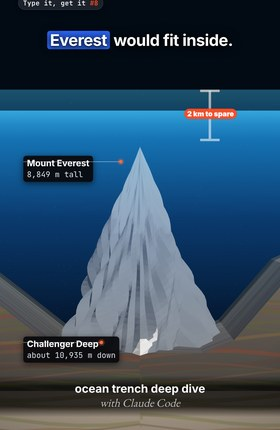
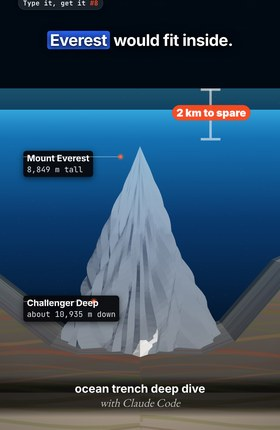
earth8 v2: smoother motion, depth ruler + creatures in the trench (Jan), director PASS
Claude-Session: https://claude.ai/code/session_011mgQaNQjFsHb5M9UtpPrpS

diff --git a/hf/videos/earth8/scenes.js b/hf/videos/earth8/scenes.js
@@ -146,26 +146,29 @@ function liveTag(w,h,sx,style){ const c=document.createElement('canvas'); c.widt
   const NF=900, fp=new Float32Array(NF*3), fv=[]; for(let i=0;i<NF;i++) fv.push([R(),R()*120-60,R()]);
   const fg=new THREE.BufferGeometry(); fg.setAttribute('position',new THREE.BufferAttribute(fp,3));
   const foam=new THREE.Points(fg,new THREE.PointsMaterial({color:0xffffff,size:0.35,transparent:true,opacity:.9})); wave.add(foam);
-  const WAVE0=1.4, WAVE1=3.2;
-  SCN[0]=function(lt0){ const lt=lt0*1.15;
-    if(lt<1.0){ // shot A
+  sc.add(cam); const spdB=liveTag(640,140,2.4,{font:'800 70px Inter, Arial',bg:'rgba(255,75,31,.95)',fg:'#fff',hh:52}); cam.add(spdB); spdB.position.set(0,1.25,-8);
+  const WAVE0=1.75, WAVE1=3.4;
+  SCN[0]=function(lt0){ const lt=lt0;
+    if(false){ // (globe shot removed: hard cut)
       const w=lt<TS? 2.4*lt : 2.4*TS+0.05*Math.sin((lt-TS)*30)*Math.exp(-(lt-TS)*9);
       globe.rotation.y=w; const k=lt<TS?0:cl((lt-TS)/0.3); shock.scale.setScalar(1+k*0.6); shock.material.opacity=lt<TS?0:(1-k);
       spd.set(lt<TS?'1,670 km/h':(lt<TS+0.12?Math.round(1670*(1-(lt-TS)/0.12)).toLocaleString('en-US')+' km/h':'0 km/h'));
       spd.material.opacity=cl(lt/0.15);
       const sh=lt>TS?0.25*Math.exp(-(lt-TS)*7):0; camA.position.set(Math.sin(lt*90)*sh,1.0+Math.cos(lt*77)*sh,31-lt*2.0); camA.lookAt(0,-1.2,0);
       ren.render(scA,camA); caption(0,lt); return; }
-    const t=lt-1.0;
-    fly.forEach(f=>{ const dt=t-f.d; if(dt<=0){ f.o.position.set(f.x0,f.y0,f.z0); f.o.rotation.set(0,0,0); return; }
+    const t=lt-0.7;
+    const cd=cl((lt-0.3)/0.4); spdB.set((cd<1?Math.round(1670*(1-easeIO(cd))/10)*10:0).toLocaleString('en-US')+' km/h');
+    spdB.material.opacity=cl(lt/0.15)*(1-cl((lt-1.5)/0.3));
+    fly.forEach(f=>{ const dt=t-f.d; if(dt<=0||t<=0){ f.o.position.set(f.x0,f.y0,f.z0); f.o.rotation.set(0,0,0); return; }
       const x=f.x0+f.v*dt+9*dt*dt, y=f.y0+f.lift*dt*(1+dt)+0.3*dt; f.o.position.set(x,y,f.z0+0.4*dt*(f.spin[0]));
       f.o.rotation.set(f.spin[0]*dt,f.spin[1]*dt,f.spin[2]*dt); });
     for(let i=0;i<NW;i++){ const v=wv[i]; const x=((v[0]+v[3]*t+200)%160)-80; const L=2+v[3]*0.06; wp[i*6]=x; wp[i*6+1]=v[1]; wp[i*6+2]=v[2]; wp[i*6+3]=x+L; wp[i*6+4]=v[1]; wp[i*6+5]=v[2]; }
-    wg.attributes.position.needsUpdate=true; wind.material.opacity=0.55*cl(t/0.3);
+    wg.attributes.position.needsUpdate=true; wind.material.opacity=0.55*cl(t/0.3); wind.visible=t>0;
     const wu=cl((lt-WAVE0)/(WAVE1-WAVE0)); wave.position.x=-30+wu*42; wave.visible=lt>WAVE0-0.2;
     for(let i=0;i<NF;i++){ const v=fv[i]; const ang=Math.PI*(0.8+0.25*v[0]); const r=9; fp[i*3]=-r+Math.sin(ang)*r*1.15+2+v[2]*1.5+Math.sin(lt*6+i)*0.3; fp[i*3+1]=(1-Math.cos(ang))*r*0.95+v[2]*1.2; fp[i*3+2]=v[1]; }
     fg.attributes.position.needsUpdate=true;
-    const sh=0.22*Math.exp(-t*2.2)+0.06*cl((lt-WAVE0)/0.8);
-    cam.position.set(2+Math.sin(lt*83)*sh, 3.2+Math.cos(lt*71)*sh, 24-1.5*t); cam.lookAt(-2,3.2+0.4*t,0);
+    const sh=(t>0?0.22*Math.exp(-t*2.2):0)+0.06*cl((lt-WAVE0)/0.8);
+    cam.position.set(2+Math.sin(lt*83)*sh, 3.2+Math.cos(lt*71)*sh, 25-1.1*lt); cam.lookAt(-2,3.2+0.3*Math.max(0,t),0);
     ren.render(sc,cam); caption(0,lt); };
 })();
 
@@ -216,24 +219,56 @@ function liveTag(w,h,sx,style){ const c=document.createElement('canvas'); c.widt
   const bm=glowMat(0xff6a3d,1); brk.add(tubeBetween([2.9,peakY,ZW/2],[2.9,-0.05,ZW/2],0.05,bm)); brk.add(tubeBetween([2.5,peakY,ZW/2],[3.3,peakY,ZW/2],0.05,bm)); brk.add(tubeBetween([2.5,-0.05,ZW/2],[3.3,-0.05,ZW/2],0.05,bm));
   const gapT=liveTag(560,140,3.4,{font:'800 70px Inter, Arial',bg:'rgba(255,75,31,.95)',fg:'#fff',hh:52}); gapT.set('2 km to spare'); gapT.position.set(2.9,peakY/2,ZW/2+0.3); brk.add(gapT);
   const an=[new THREE.Object3D(),new THREE.Object3D()]; an[0].position.set(-0.8,peakY-1.2,ZW/2); an[1].position.set(-1.9,-D+1.7,ZW/2); an.forEach(a=>sc.add(a));
-  const DIVE=1.0, DROP0=1.05, DROP1=1.5;
-  SCN[1]=function(lt0){ const lt=lt0*1.15;
+  const DIVE=3.5, DROP0=3.5, DROP1=4.4;
+  // creatures/landmarks met on the way down (real depths): drawn as glowing silhouettes on canvas sprites
+  function sil(w,h,draw){ const t=canvasTex(w,h,(c,W,H)=>{ c.save(); draw(c,W,H); c.restore(); }); return new THREE.Sprite(new THREE.SpriteMaterial({map:t,transparent:true,depthWrite:false,toneMapped:false})); }
+  const whale=sil(512,256,(c,w,h)=>{ c.fillStyle='#3d4a5c'; c.beginPath(); c.moveTo(40,120); c.quadraticCurveTo(60,60,190,62); c.lineTo(330,70); c.quadraticCurveTo(420,90,440,128); c.lineTo(480,96); c.lineTo(500,108); c.lineTo(476,140); c.lineTo(500,172); c.lineTo(480,180); c.lineTo(440,150);
+    c.quadraticCurveTo(330,185,190,172); c.quadraticCurveTo(50,175,40,120); c.fill(); c.fillStyle='#55667c'; c.fillRect(60,70,120,20); c.fillStyle='#0b0f16'; c.beginPath(); c.arc(150,118,6,0,7); c.fill(); });
+  const angler=sil(256,256,(c,w,h)=>{ const g=c.createRadialGradient(150,48,0,150,48,40); g.addColorStop(0,'rgba(190,255,240,1)'); g.addColorStop(1,'rgba(120,255,220,0)'); c.fillStyle=g; c.fillRect(100,0,100,100);
+    c.strokeStyle='#5a4a40'; c.lineWidth=5; c.beginPath(); c.moveTo(118,110); c.quadraticCurveTo(130,40,150,48); c.stroke();
+    c.fillStyle='#4a3c34'; c.beginPath(); c.ellipse(118,160,78,62,0,0,7); c.fill(); c.beginPath(); c.moveTo(190,150); c.lineTo(250,110); c.lineTo(250,200); c.fill();
+    c.fillStyle='#e8e2d0'; for(let i=0;i<7;i++){ c.beginPath(); c.moveTo(48+i*12,175); c.lineTo(54+i*12,192); c.lineTo(60+i*12,175); c.fill(); } c.fillStyle='#cfe9ff'; c.beginPath(); c.arc(90,140,7,0,7); c.fill(); });
+  const ship=sil(512,256,(c,w,h)=>{ c.fillStyle='#4a3a30'; c.beginPath(); c.moveTo(20,120); c.lineTo(492,110); c.lineTo(470,190); c.lineTo(60,196); c.closePath(); c.fill();
+    c.fillStyle='#6a5444'; c.fillRect(90,92,330,28); [140,210,280,350].forEach(x=>{ c.fillStyle='#5a4638'; c.save(); c.translate(x,92); c.rotate(-0.12); c.fillRect(-14,-62,28,62); c.restore(); });
+    c.fillStyle='rgba(20,15,10,.6)'; for(let i=0;i<22;i++) c.fillRect(70+i*18,140,8,8); });
+  const snail=sil(256,128,(c,w,h)=>{ c.fillStyle='#f0c9c4'; c.beginPath(); c.ellipse(80,64,58,34,0,0,7); c.fill(); c.beginPath(); c.moveTo(120,44); c.quadraticCurveTo(220,52,250,64); c.quadraticCurveTo(220,78,120,86); c.fill();
+    c.fillStyle='#2a1a1a'; c.beginPath(); c.arc(52,56,6,0,7); c.fill(); });
+  const pathX=(y)=>{ const du=(-0.3-y)/(D-0.6); return -6+6*du; };
+  const meets=[[whale,2.0,1.6,'Sperm whale','~2,000 m'],[angler,1.0,0.8,'Anglerfish','~1,000 m'],[ship,3.8,1.8,'Titanic wreck','3,800 m'],[snail,8.336,0.9,'Deepest fish seen','8,336 m']];
+  meets.forEach(m=>{ const [sp,dk,sz]=m; sp.scale.set(sz,sz*sp.material.map.image.height/sp.material.map.image.width,1); sp.position.set(pathX(-dk)+(sz>1.7?0.55:(dk>8?1.1:0.95)),-dk,ZW/2+0.5); sc.add(sp);
+    const t=liveTag(1000,160,1.6,{font:'700 58px Inter, Arial',bg:'rgba(8,10,14,.88)',fg:'#ffffff',hh:56}); t.set(m[3]+' · '+m[4]); t.position.set(pathX(-dk)+0.5,sp.position.y+sz*0.36+0.12,ZW/2+0.7); sc.add(t); m.push(t); });
+  // depth ruler (screen space, left edge): ticks every 500 m, scrolls with the dive; marks Titanic + Everest height
+  const st=document.getElementById('st1'); const rul=document.createElement('div'); rul.id='rul'; rul.innerHTML='<div id="rtape"></div><div id="rnow"><i></i><b id="rnum">0 m</b></div>'; st.appendChild(rul);
+  const tape=rul.querySelector('#rtape'), rnum=rul.querySelector('#rnum'); const PX=240;
+  let th=''; for(let m=0;m<=11000;m+=500){ th+='<div class="tk'+(m%1000?'':' big')+'" style="top:'+(m/1000*PX)+'px">'+(m%1000?'':'<span>'+(m/1000)+' km</span>')+'</div>'; }
+  th+='<div class="rm" style="top:'+(8.849*PX)+'px">Everest is 8,849 m tall</div>'; tape.innerHTML=th;
+  const css=document.createElement('style'); css.textContent='#rul{position:absolute;left:0;top:0;width:760px;height:1920px;pointer-events:none;opacity:0;-webkit-mask-image:linear-gradient(180deg,transparent 380px,#000 520px,#000 1380px,transparent 1520px)}'+
+   '#rtape{position:absolute;left:70px;top:960px;width:4px;height:'+(11*PX)+'px;background:rgba(255,255,255,.55)}'+
+   '.tk{position:absolute;left:0;width:22px;height:3px;background:rgba(255,255,255,.6)}.tk.big{width:40px;background:#fff}.tk span{position:absolute;white-space:nowrap;left:52px;top:-20px;font:700 34px Inter,Arial;color:#fff;text-shadow:0 2px 10px #000}'+
+   '.rm{position:absolute;left:300px;transform:translateY(-50%);white-space:nowrap;background:#ff4b1f;color:#fff;font:700 28px Inter,Arial;padding:6px 14px;border-radius:999px}'+
+   '#rnow{position:absolute;left:58px;top:960px;transform:translateY(-50%);display:flex;align-items:center;gap:10px}#rnow i{width:0;height:0;border-left:22px solid #ff4b1f;border-top:13px solid transparent;border-bottom:13px solid transparent}'+
+   '#rnow b{font:800 44px "JetBrains Mono",monospace;color:#fff;background:rgba(8,10,14,.9);padding:6px 14px;border-radius:12px}';
+  st.appendChild(css);
+  SCN[1]=function(lt0){ const lt=lt0;
     for(let i=0;i<sp.count;i++){ const x=sp.getX(i), y=sp.getY(i); sp.setZ(i,0.06*Math.sin(x*1.3+lt*3)+0.04*Math.sin(y*2+lt*2.3)); } sp.needsUpdate=true; surf.geometry.computeVertexNormals();
-    const du=easeIO(cl(lt/DIVE)); const subY=-0.3-(D-0.6)*du; const subX=-6+6*du+0.3*Math.sin(lt*2);
-    sub.position.set(subX,subY,ZW/2+0.4); sub.visible=lt<DROP1+0.2;
-    const depth=Math.round(cl(-subY/D)*D*1000/5)*5; gauge.set((lt>DIVE?10935:depth).toLocaleString('en-US')+' m');
-    gauge.position.set(subX,subY+0.62,ZW/2+0.6); gauge.material.opacity=cl(lt/0.2)*(1-cl((lt-DROP0)/0.25));
-    const eu=cl((lt-DROP0)/(DROP1-DROP0)); const ey=-D+H/2+ (1-easeOut2(eu))*22 + (eu>=1?0:0); everest.position.set(0,ey,0); everest.visible=lt>DROP0;
-    const bounce=eu>=1?0.25*Math.exp(-(lt-DROP1)*8)*Math.sin((lt-DROP1)*30):0; everest.position.y+=bounce;
-    const bu=cl((lt-DROP1-0.2)/0.3); brk.visible=bu>0; brk.scale.set(1,1,1); bm.opacity=bu; gapT.material.opacity=bu;
-    // camera: follow the sub down, then pull back to the full slice
-    const pu=easeIO(cl((lt-DIVE)/0.8));
-    const fx=subX+0.5, fy=subY, fz=ZW/2+6.5;
-    const wx=0.0, wy=-5.2, wz=ZW/2+30;
-    cam.position.set(fx+(wx-fx)*pu, fy+0.6+(wy-fy-0.6)*pu, fz+(wz-fz)*pu); cam.lookAt(fx+(wx-fx)*pu, fy+(wy-fy)*pu, 0);
-    const la=cl((lt-DROP1-0.35)/0.25);
-    layoutLabels([['l1_0',an[0],la],['l1_1',an[1],cl((lt-DIVE-0.5)/0.25)]].map(([id,o,a])=>[document.getElementById(id),o,a]),cam,90,150);
-    ren.render(sc,cam); caption(1,lt); };
+    const du=easeIO(cl(lt/DIVE)); const subY=-0.3-(D-0.6)*du; const subX=pathX(subY)+0.15*Math.sin(lt*2);
+    sub.position.set(subX,subY,ZW/2+0.4); sub.visible=lt<DROP1+0.2; gauge.visible=false;
+    const dkm=D*du; rnum.textContent=(Math.round(dkm*1000/5)*5).toLocaleString('en-US')+' m';
+    tape.style.transform='translateY('+(-dkm*PX)+'px)'; rul.style.opacity=cl(lt/0.25)*(1-cl((lt-DIVE)/0.3));
+    meets.forEach(m=>{ const near=1-cl((Math.abs(m[1]+subY)-0.7)/0.8); m[0].material.opacity=near; m[5].material.opacity=near*(1-cl((lt-DIVE)/0.3)); });
+    whale.position.x=pathX(-2.0)+0.95+0.2*Math.sin(lt*1.2); angler.position.y=-1.0+0.05*Math.sin(lt*3);
+    const eu=cl((lt-DROP0)/(DROP1-DROP0)); everest.position.set(0,-D+H/2+(1-easeIO(eu))*16,0); everest.visible=lt>DROP0;
+    const bu=cl((lt-DROP1-0.1)/0.3); brk.visible=bu>0; bm.opacity=bu; gapT.material.opacity=bu;
+    meets.forEach(m=>{ if(lt>DIVE) m[0].material.opacity*=1-cl((lt-DIVE)/0.4); });
+    // camera: follow the sub down (a little wider to see the creatures), then a smooth pull-back, then a slow push-in (never static)
+    const pu=easeIO(cl((lt-DIVE+0.15)/1.1));
+    const fx=subX+0.55, fy=subY, fz=ZW/2+7.5;
+    const push=Math.max(0,lt-DIVE-0.95)*0.8;
+    const wx=0.0, wy=-5.2, wz=ZW/2+30-push;
+    cam.position.set(fx+(wx-fx)*pu, fy+0.5+(wy-fy-0.5)*pu, fz+(wz-fz)*pu); cam.lookAt(fx+(wx-fx)*pu, fy+(wy-fy)*pu, 0);
+    const la=cl((lt-DROP1-0.25)/0.25);
+    layoutLabels([['l1_0',an[0],la],['l1_1',an[1],cl((lt-DIVE-0.6)/0.25)]].map(([id,o,a])=>[document.getElementById(id),o,a]),cam,90,150);
+    ren.render(sc,cam); caption(1,lt-DROP0+0.1); };
 })();
 
 // ---------- S2 /scale the Moon versus Earth, true to scale: the Moon is 3,474 km wide, Earth 12,742 km (~3.7x). Then Moons fly in and
@@ -250,30 +285,31 @@ function liveTag(w,h,sx,style){ const c=document.createElement('canvas'); c.widt
   const moonMat=new THREE.MeshStandardMaterial({map:mTex,roughness:.95});
   const moon=new THREE.Mesh(new THREE.SphereGeometry(RM,64,40),moonMat); sc.add(moon);
   const NM=48, mini=[]; const mg=new THREE.SphereGeometry(RM,32,20);
-  for(let i=0;i<NM;i++){ const m=new THREE.Mesh(mg,moonMat); const a=R()*Math.PI*2, e=(R()-.5)*1.6; m.userData={from:new THREE.Vector3((i%2?1:-1)*(6+R()*2),-1+R()*3.5,2+R()*2), t0:0.45+i*0.02}; m.visible=false; sc.add(m); mini.push(m); }
+  for(let i=0;i<NM;i++){ const m=new THREE.Mesh(mg,moonMat); const a=R()*Math.PI*2, e=(R()-.5)*1.6; m.userData={from:new THREE.Vector3((i%2?1:-1)*(6+R()*2),-1+R()*3.5,2+R()*2), t0:0.4+i*0.018}; m.visible=false; sc.add(m); mini.push(m); }
   const cnt=liveTag(560,160,2.4,{font:'900 92px Inter, Arial',bg:'rgba(255,75,31,.95)',fg:'#fff',hh:62}); sc.add(cnt);
   const line=new THREE.Mesh(new THREE.CylinderGeometry(1,1,1,12),glowMat(0xff6a3d,.95)); sc.add(line);
   const dT=liveTag(800,150,1,{font:'800 74px Inter, Arial',bg:'rgba(8,9,12,.9)',fg:'#fff',hh:54}); dT.set('384,400 km apart'); sc.add(dT);
   const tE=liveTag(400,130,1,{font:'800 64px Inter, Arial',bg:'rgba(8,9,12,.9)',fg:'#fff',hh:46}); tE.set('Earth'); sc.add(tE);
   const tM=liveTag(400,130,1,{font:'800 64px Inter, Arial',bg:'rgba(8,9,12,.9)',fg:'#fff',hh:46}); tM.set('Moon'); sc.add(tM);
   const an=[new THREE.Object3D(),new THREE.Object3D()]; earth.add(an[0]); an[0].position.set(RE*0.7,RE*0.2,RE*0.6); moon.add(an[1]); an[1].position.set(RM*0.6,0,RM*0.7);
-  const PULL=2.05;
-  SCN[2]=function(lt0){ const lt=lt0*1.15; earth.rotation.y=0.6+lt*0.15; moon.rotation.y=lt*0.1;
+  const mdot=new THREE.Sprite(new THREE.SpriteMaterial({map:canvasTex(64,64,(c,w,h)=>{ const g=c.createRadialGradient(32,32,0,32,32,32); g.addColorStop(0,'rgba(235,235,230,1)'); g.addColorStop(.45,'rgba(220,220,215,1)'); g.addColorStop(.6,'rgba(220,220,215,.25)'); g.addColorStop(1,'rgba(220,220,215,0)'); c.fillStyle=g; c.fillRect(0,0,w,h); }),transparent:true,depthWrite:false,toneMapped:false})); sc.add(mdot);
+  const PULL=1.8;
+  SCN[2]=function(lt0){ const lt=lt0; earth.rotation.y=0.6+lt*0.35; moon.rotation.y=lt*0.2;
     const pop=backOut(cl(lt/0.45)), popM=backOut(cl((lt-0.25)/0.45));
     earth.scale.setScalar(Math.max(0.001,pop)); atm.scale.setScalar(Math.max(0.001,pop));
-    const pu=easeIO(cl((lt-PULL)/0.65)); const my=RE+RM+1.2+(DIST-(RE+RM+1.2))*pu;
+    const pu=easeIO(cl((lt-PULL)/1.15)); const my0=RE+RM+1.2; const my=my0*Math.pow(DIST/my0,pu);
     moon.position.set(0.9*(1-pu),my,0); moon.scale.setScalar(Math.max(0.001,popM));
     // moons diving into Earth + counter
     let n=0; mini.forEach((m,i)=>{ const u=cl((lt-m.userData.t0)/0.28); m.visible=u>0&&u<1&&lt<PULL; if(u>=1) n++;
       if(m.visible){ m.position.copy(m.userData.from).lerp(new THREE.Vector3(0,0,0),easeIO(u)); m.scale.setScalar(1-0.85*u*u); } });
-    const cn=lt<0.45?0:Math.min(49,n+1); cnt.set('×'+cn); cnt.position.set(-1.25,RE+1.15,1.0); cnt.material.opacity=cl((lt-0.45)/0.15)*(1-cl((lt-PULL)/0.3));
+    const cn=lt<0.4?0:Math.min(49,n+1); cnt.set('×'+cn); cnt.position.set(-1.25,RE+1.15,1.0); cnt.material.opacity=cl((lt-0.4)/0.15)*(1-cl((lt-PULL)/0.25));
     // distance line
     // camera: close two-shot -> very far, both in frame
-    const d0=16.5, d1=DIST*2.9; const d=d0*Math.pow(d1/d0,pu); const ty=1.9*(1-pu)+(DIST*0.45)*pu;
+    const d0=16.5, d1=DIST*2.9; const d=d0*Math.pow(d1/d0,pu); const ty=my*0.47;
     cam.position.set(1.0*(1-pu),ty,d); cam.lookAt(0,ty,0);
     line.visible=pu>0.02; line.position.set(0,(RE+my)/2,0); line.scale.set(0.0016*d,Math.max(0.01,my-RE-RM),0.0016*d);
-    dT.position.set(0,DIST*0.5,0); dT.scale.set(d*0.3,d*0.3*150/800,1); dT.material.opacity=cl((lt-PULL-0.42)/0.15);
-    const ft=cl((lt-PULL-0.45)/0.15); [tE,tM].forEach((t,i)=>{ t.material.opacity=ft; const k=d*0.11; t.scale.set(k,k*130/400,1); t.position.set(d*0.12,i?my:0,0); });
+    dT.position.set(0,my*0.5,0); mdot.position.copy(moon.position); mdot.scale.setScalar(0.03*d); mdot.material.opacity=cl((pu-0.5)/0.3); dT.scale.set(d*0.3,d*0.3*150/800,1); dT.material.opacity=cl((pu-0.8)/0.2);
+    const ft=cl((pu-0.8)/0.2); [tE,tM].forEach((t,i)=>{ t.material.opacity=ft; const k=d*0.11; t.scale.set(k,k*130/400,1); t.position.set(d*0.12,i?my:0,0); });
     const la=(1-cl((lt-PULL)/0.25));
     layoutLabels([['l2_0',an[0],cl((lt-0.3)/0.2)*la],['l2_1',an[1],cl((lt-0.45)/0.2)*la]].map(([id,o,a])=>[document.getElementById(id),o,a]),cam,640,150);
     ren.render(sc,cam); caption(2,lt); };

diff --git a/hf/videos/earth8/build.py b/hf/videos/earth8/build.py
@@ -18,7 +18,7 @@ for k in range(3):
         Image.new("RGB", (280, 430), (34, 34, 34)).save(A / f"th{k}.jpg")
 
 # --- gaps after each "this." so the 3D result plays
-GAPS = {13: 1.8, 25: 1.8, 36: 1.8}
+GAPS = {13: 2.4, 25: 4.6, 36: 2.6}
 if not (A / "voice_raw.mp3").exists():
     shutil.copy(A / "voice.mp3", A / "voice_raw.mp3"); shutil.copy(A / "voice.json", A / "voice_raw.json")
 vw = json.loads((A / "voice_raw.json").read_text())
@@ -232,7 +232,7 @@ function apply(t){
 const clock={t:0}; tl.fromTo(clock,{t:0},{t:DUR,duration:DUR,ease:'none',onUpdate:()=>apply(clock.t)},0); apply(0);
 const NI={immediateRender:false}; function F2(sel,f,t,at){ return tl.fromTo(sel,f,Object.assign({},t,NI),at); }
 TY.forEach((d,k)=>{
-  if(k){ tl.set('#st'+(k-1),{opacity:0},d.T); tl.set(['#kbw','#inp'],{y:0,opacity:1},d.T); tl.set(['#ub','#run','#bot'],{opacity:0},d.T); }
+  if(k){ F2('#st'+(k-1),{scale:1,y:0,borderRadius:0},{scale:.58,y:110,borderRadius:60,duration:.4,ease:'power2.inOut'},d.T-0.62); F2('#st'+(k-1),{opacity:1,y:110},{opacity:0,y:-500,duration:.25,ease:'power2.in'},d.T-0.22); tl.set(['#kbw','#inp'],{y:0,opacity:1},d.T); tl.set(['#ub','#run','#bot'],{opacity:0},d.T); }
   F2('#chipc',{opacity:0,y:30},{opacity:1,y:0,duration:.2,ease:'power2.out'},d.slash);
   tl.set('#snd',{backgroundColor:'#ff4b1f'},d.slash+0.05);
   tl.set('#chipc',{opacity:0},d.p0);
@@ -243,10 +243,10 @@ TY.forEach((d,k)=>{
   F2('#bot',{opacity:0},{opacity:1,duration:.2},d.send+0.15);
   tl.set('#snd',{backgroundColor:'#3a3a3a'},d.send+0.3);
   F2('#st'+k,{opacity:0,scale:.5,y:140,borderRadius:60},{opacity:1,scale:.58,y:110,borderRadius:60,duration:.3,ease:'back.out(1.6)'},d.card);
-  F2('#st'+k,{scale:.58,y:110,borderRadius:60},{scale:1,y:0,borderRadius:0,duration:.42,ease:'expo.inOut'},d.full);
+  F2('#st'+k,{scale:.58,y:110,borderRadius:60},{scale:1,y:0,borderRadius:0,duration:.55,ease:'power2.inOut'},d.full);
 });
 tl.set(['#st0','#st1','#st2'],{opacity:0},0); tl.set(['#kbw','#inp'],{y:0,opacity:1},0); tl.set('#snd',{backgroundColor:'#3a3a3a'},0);
-tl.set('#st2',{opacity:0},END); tl.set('#ui',{opacity:0},END);
+F2('#st2',{opacity:1,scale:1},{opacity:0,scale:.9,duration:.25,ease:'power2.in'},END-0.2); tl.set('#ui',{opacity:0},END);
 F2('#end',{opacity:0},{opacity:1,duration:.15},END);
 F2('#end svg',{scale:0,rotation:-90},{scale:1,rotation:0,duration:.45,ease:'back.out(2)'},END+0.05);
 F2('#e1',{opacity:0,y:40},{opacity:1,y:0,duration:.3,ease:A},END+0.02);
